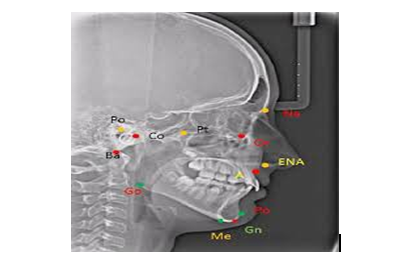
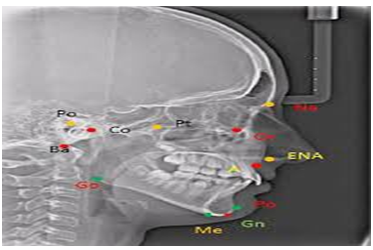
ad last changes

diff --git a/src/pages/help.vue b/src/pages/help.vue
@@ -4,7 +4,7 @@
       Ayuda
     </div>
     <div class="text-weight-medium q-mt-md" style="text-align: justify;">
-      Bienvenido al auxiliar de historias odontológicas, en la vista de (auxiliar) podrás buscar como completar el historial odontológico de tu paciente. <br> <br>
+      Bienvenido al auxiliar de historias odontológicas, en la vista de (auxiliar) podrás buscar como completar el historia clínica de ortopedia y ortodoncia de tu paciente. <br> <br>
       Al buscar una palabra de la pregunta, o la misma pregunta te daremos posibles respuestas. Dependiendo del caso de tu paciente. <br><br> Sólo hazle tu consulta al auxiliar.
     </div>
   </q-page>

diff --git a/src/pages/assistant.vue b/src/pages/assistant.vue
@@ -177,7 +177,7 @@
           </div>
           <img 
             src="img/cefaFirst.png"
-            style="width:100%;height:150px;margin-top:10px;"
+            style="width:100%;height:200px;margin-top:10px;"
             class="rounded-borders shadow-2"><br><br>
           <div class="text-weight-medium">
             <strong>Análisis de Steiner.</strong><br><br>

diff --git a/src/layouts/MainLayout.vue b/src/layouts/MainLayout.vue
@@ -13,7 +13,7 @@
       </q-toolbar>
       <div class="q-px-lg q-mb-sm">
           <div class="text-h5">
-            Auxiliar de historial
+            HC de Ortopedia y Ortodoncia
           </div>
           <div class="text-subtitle1">
             Odontología
